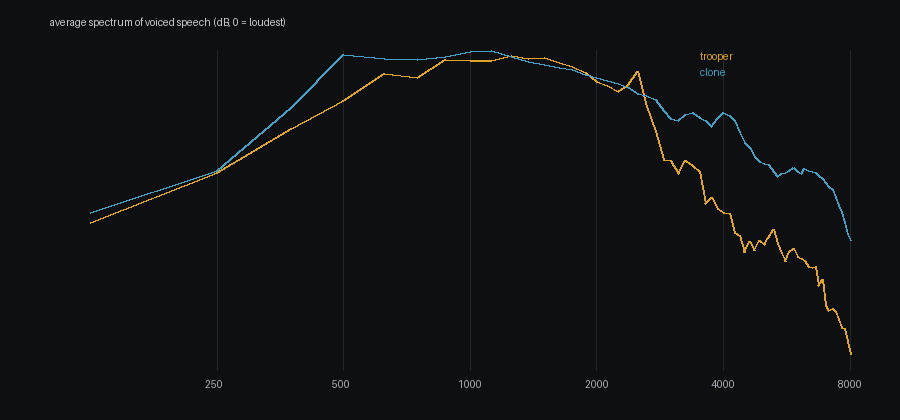
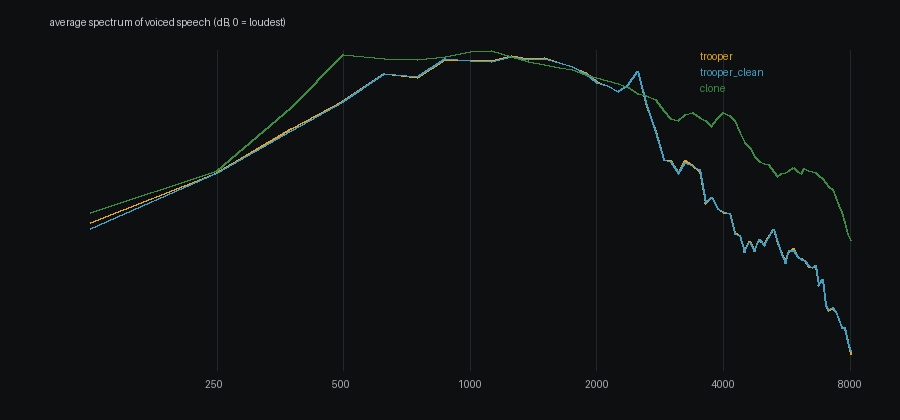
Voice targets: add the clean trooper set (same result: centre 117 Hz, median 124 Hz)
Claude-Session: https://claude.ai/code/session_014PmTqdRFYRCH22NdKcRT7c

diff --git a/tools/voice_analysis/report.md b/tools/voice_analysis/report.md
@@ -3,4 +3,5 @@
 | target | lines | voiced s | pitch centre | median | 10-90 % range | spread | tone centroid | F1 | F2 | F3 |
 |---|---|---|---|---|---|---|---|---|---|---|
 | trooper | 18 | 8.1 | 117.2 Hz | 123.7 Hz | 94.0-192.5 Hz | 12.4 st | 1450.0 Hz | 800.0 | 1490.0 | 2326.0 |
+| trooper_clean | 17 | 7.8 | 117.2 Hz | 124.1 Hz | 94.1-192.3 Hz | 12.4 st | 1450.0 Hz | 800.0 | 1496.0 | 2335.0 |
 | clone | 45 | 61.3 | 161.0 Hz | 155.4 Hz | 104.3-234.6 Hz | 14.0 st | 1329.0 Hz | 678.0 | 1511.0 | 2511.0 |
